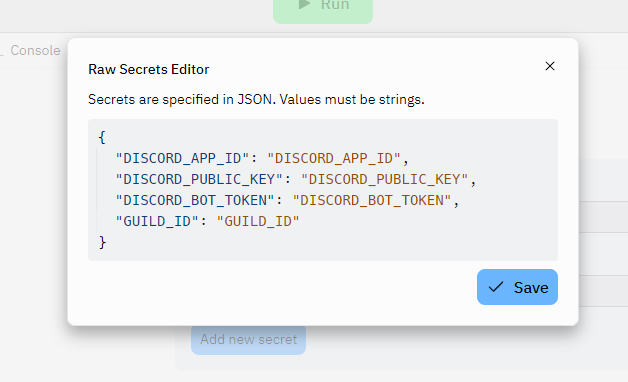
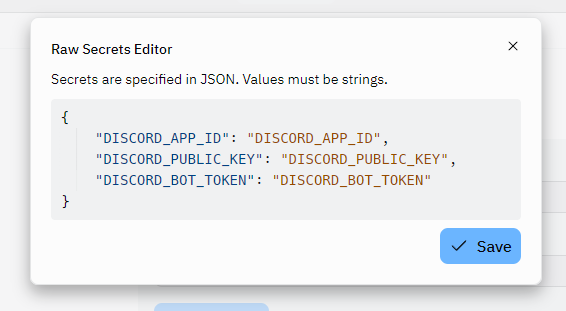
guild_id

diff --git a/README.md b/README.md
@@ -42,8 +42,7 @@ Write down the application ID, public key, and bot token. You will need these la
 {
     "DISCORD_APP_ID": "",
     "DISCORD_PUBLIC_KEY": "",
-    "DISCORD_BOT_TOKEN": "",
-    "GUILD_ID": ""
+    "DISCORD_BOT_TOKEN": ""
 }
 ```
 `GUILD_ID` is the respective Server ID of the community server that the bot was invited to.
@@ -83,6 +82,8 @@ Write down the application ID, public key, and bot token. You will need these la
 9. Run the bot.
 
     ![Run](public/run.png)
+
+    Note: It can take up to an hour for the command to become available.
 
 ### UptimeRobot
 
